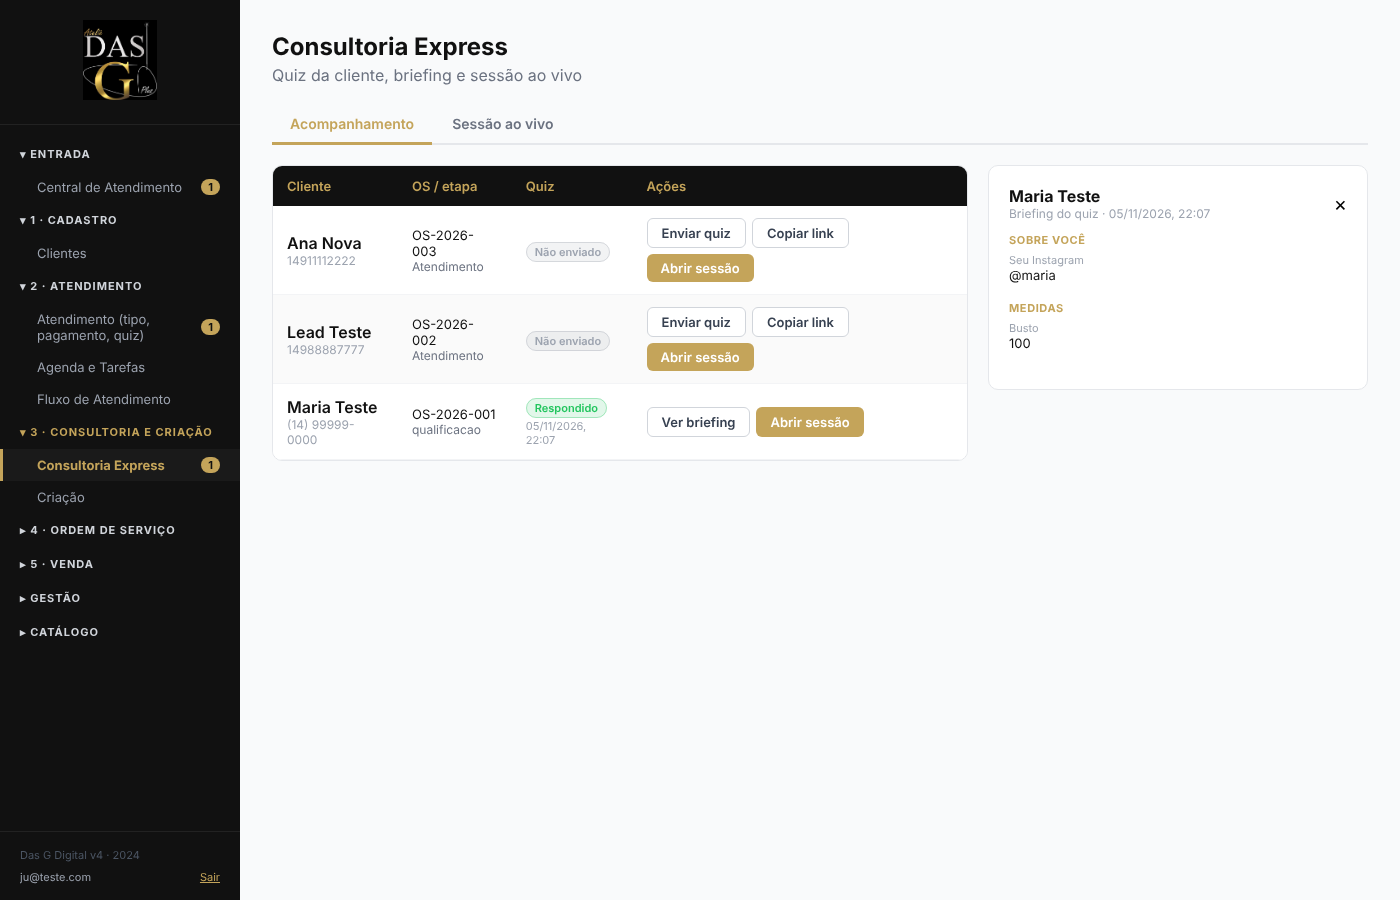
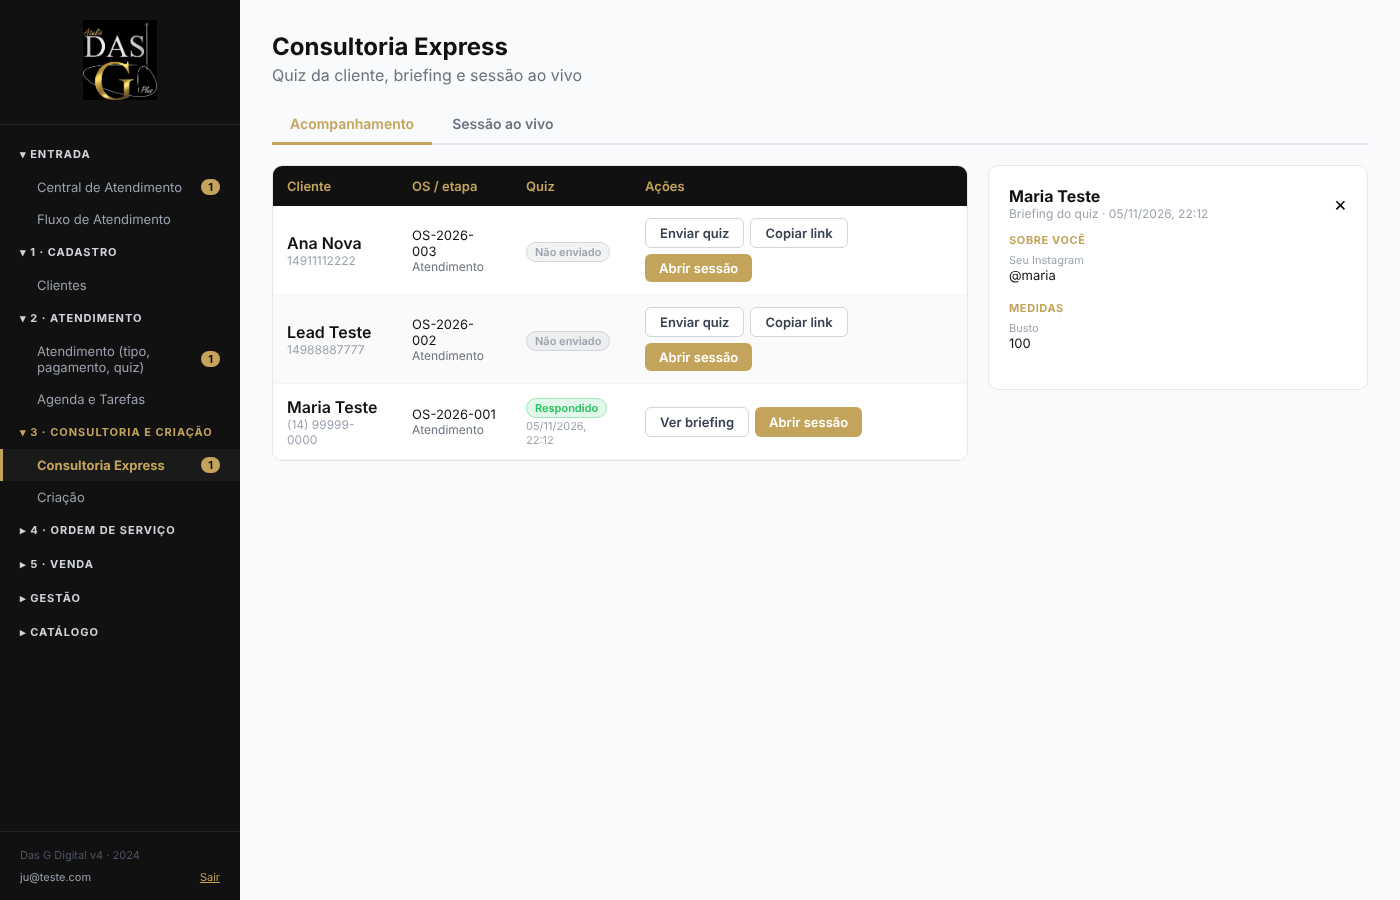
Fluxo de Atendimento passa para o grupo Entrada
Claude-Session: https://claude.ai/code/session_01FxfKeRtaChjsf2CxAMQed3

diff --git a/src/DasGCRMv4.jsx b/src/DasGCRMv4.jsx
@@ -1565,9 +1565,9 @@ export default function DasGCRM() {
     { id: 'produtos', label: 'Cadastro de Produto', dot: produtos.filter(p => (p.status_geral || 'em_aprovacao') === 'em_aprovacao').length },
   ];
   const GRUPOS = [
-    { titulo: 'Entrada', ids: ['central'] },
+    { titulo: 'Entrada', ids: ['central', 'fluxo'] },
     { titulo: '1 · Cadastro', ids: ['clientes'] },
-    { titulo: '2 · Atendimento', ids: ['atendimento', 'agenda', 'fluxo'] },
+    { titulo: '2 · Atendimento', ids: ['atendimento', 'agenda'] },
     { titulo: '3 · Consultoria e Criação', ids: ['consultoria', 'criacao'] },
     { titulo: '4 · Ordem de Serviço', ids: ['os', 'provas', 'compras'] },
     { titulo: '5 · Venda', ids: ['orcamentos', 'pedidosvenda'] },
